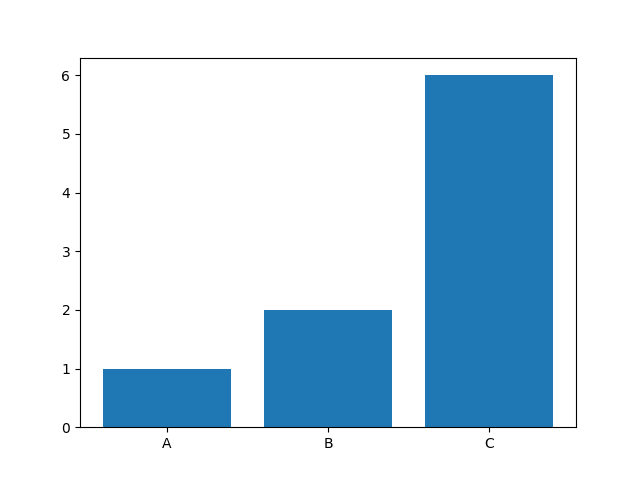
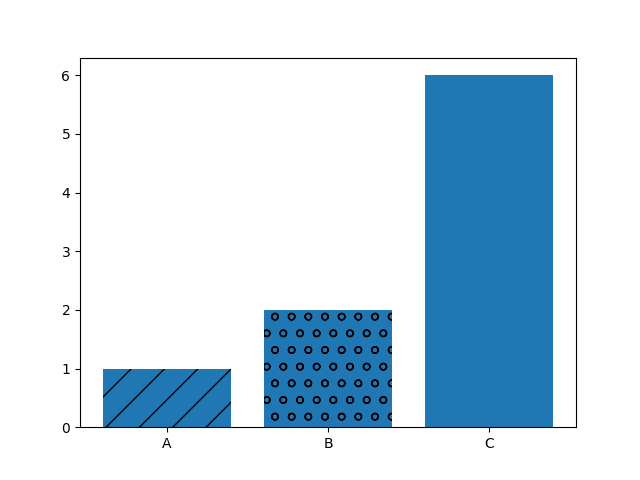
Akcija

diff --git a/Akcije.py b/Akcije.py
@@ -1,0 +1,11 @@
+import matplotlib.pyplot as plt
+
+
+stock_prices = [10,12,15,18,20,22,25]
+dates = ["Jan 1","Jan 2","Jan 3","Jan 4","Jan 5","Jan 6","Jan 7"]
+
+plt.plot(dates,stock_prices)
+plt.xlabel("datum")
+plt.ylabel("Ciejna akcija")
+plt.title("Kretanje akcija")
+plt.savefig("akcije.png")

diff --git a/BarChar.py b/BarChar.py
@@ -3,6 +3,8 @@ import matplotlib.pyplot as plt
 
 labels =["A","B","C"]
 values = [1,2,6]
-plt.bar(labels,values)
+bars = plt.bar(labels,values)
+bars[0].set_hatch("/")
+bars[1].set_hatch("o")
 plt.savefig("barchar.png")
 plt.show
